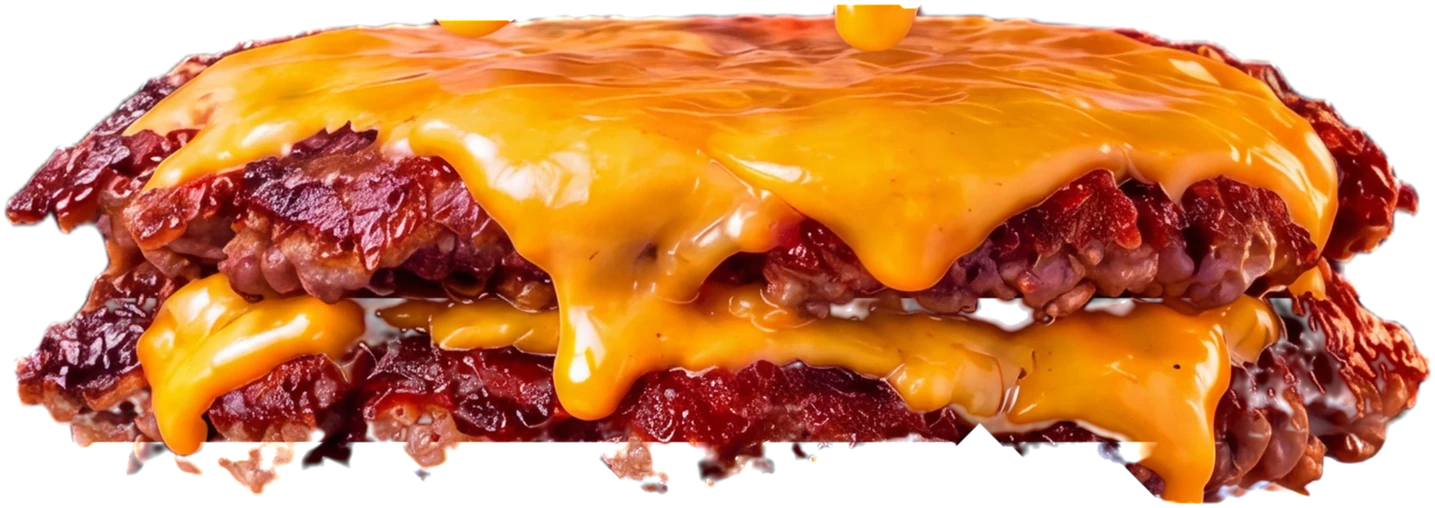
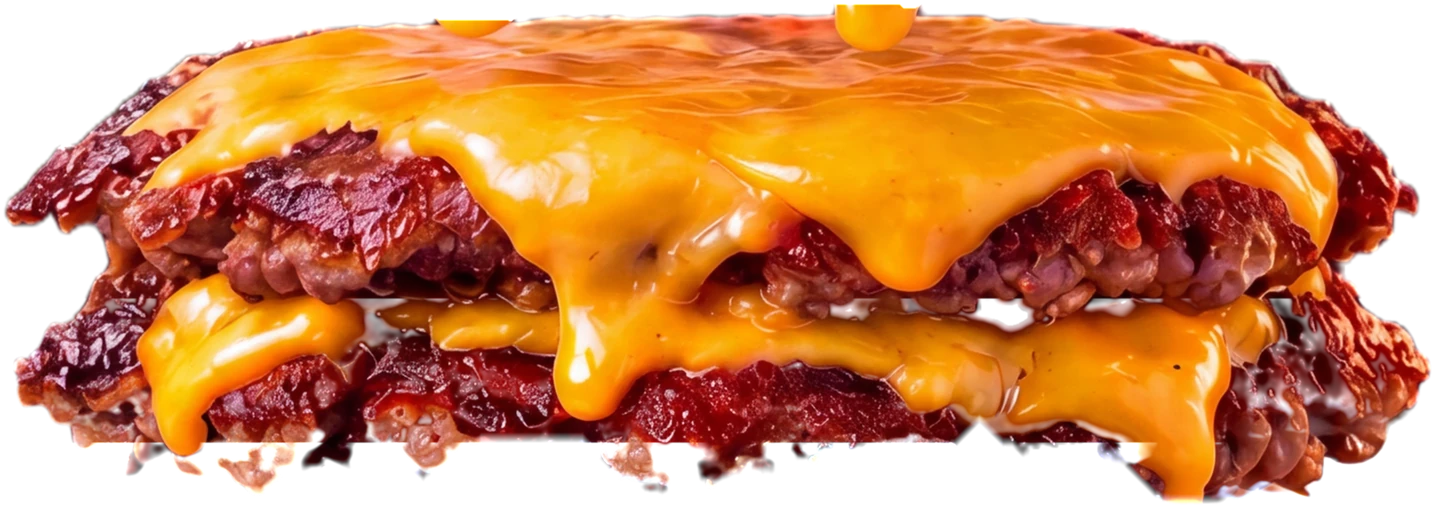
Fotos a resolución completa (calidad 90, AVIF) y «¿Qué lleva?» con la torre nueva
- Recortes de producto exportados a la resolución máxima que tienen (2600 px las de 4K; 1560-1980 px las de 2K)
  en vez de 1400 px; next/image admite calidad 90 y sirve AVIF (antes quedaba clavado a 75).
- «¿Qué lleva?»: la Smash abierta con las mismas capas del hero en su posición abierta (queso del v5).
- Capa de la carne más limpia (sin migas, corte inferior fundido) y bacon sin restos de carne en el fondo fijo.

diff --git a/src/data/images.ts b/src/data/images.ts
@@ -23,14 +23,14 @@ export type SlotImage = {
 };
 
 export const slots: Record<SlotId, SlotImage | null> = {
-  "smash-burger": { src: "/images/carta/smash-burger-v3.webp", alt: "Smash Burger", width: 1400, height: 950, cutout: "contact" },
-  classic: { src: "/images/carta/classic-v2.webp", alt: "Classic", width: 1400, height: 999, cutout: "contact" },
-  "texas-cowboy": { src: "/images/carta/texas-cowboy-v2.webp", alt: "Texas Cowboy", width: 1400, height: 1018, cutout: "contact" },
-  "double-trouble": { src: "/images/carta/double-trouble-v2.webp", alt: "Double Trouble", width: 1400, height: 1459, cutout: "contact" },
-  "chicken-burger": { src: "/images/carta/chicken-burger-v3.webp", alt: "Chicken Burger", width: 1400, height: 1003, cutout: "contact" },
-  volcano: { src: "/images/carta/volcano-v3.webp", alt: "Hamburguesa con cascada de cheddar fundido", width: 1400, height: 1316, cutout: "float" },
-  // la Smash abierta por capas: último fotograma del vídeo de la portada, recortado
-  "que-lleva": { src: "/images/carta/smash-abierta.webp", alt: "La Smash Burger abierta por capas", width: 1200, height: 1681, cutout: "float" },
+  "smash-burger": { src: "/images/carta/smash-burger-v4.webp", alt: "Smash Burger", width: 2600, height: 1764, cutout: "contact" },
+  classic: { src: "/images/carta/classic-v4.webp", alt: "Classic", width: 1981, height: 1414, cutout: "contact" },
+  "texas-cowboy": { src: "/images/carta/texas-cowboy-v4.webp", alt: "Texas Cowboy", width: 1812, height: 1317, cutout: "contact" },
+  "double-trouble": { src: "/images/carta/double-trouble-v4.webp", alt: "Double Trouble", width: 1559, height: 1625, cutout: "contact" },
+  "chicken-burger": { src: "/images/carta/chicken-burger-v4.webp", alt: "Chicken Burger", width: 2600, height: 1863, cutout: "contact" },
+  volcano: { src: "/images/carta/volcano-v4.webp", alt: "Hamburguesa con cascada de cheddar fundido", width: 2600, height: 2444, cutout: "float" },
+  // la Smash abierta por capas: las mismas capas del hero en su posición abierta (renders/capas/), recortada
+  "que-lleva": { src: "/images/carta/smash-abierta-v2.webp", alt: "La Smash Burger abierta por capas", width: 1600, height: 3018, cutout: "float" },
   // foto con su fondo (no recortada)
   patatas: { src: "/images/carta/patatas.webp", alt: "Patatas fritas con salsa y queso rallado", width: 1086, height: 1448 },
 };

diff --git a/src/app/sections.css b/src/app/sections.css
@@ -704,7 +704,7 @@
   position: relative;
   flex: none;
   width: min(54%, 50vmin);
-  aspect-ratio: 1200 / 1681; /* proporción de la Smash abierta (smash-abierta.webp) */
+  aspect-ratio: 1600 / 3018; /* proporción de la Smash abierta (smash-abierta-v2.webp) */
 }
 /* una imagen por tema: la del otro tema no se muestra */
 :root[data-theme="dark"] .inside__still--light,

diff --git a/next.config.ts b/next.config.ts
@@ -38,6 +38,8 @@ const nextConfig: NextConfig = {
   trailingSlash: true,
   cacheComponents: !isPages,
   partialPrefetching: !isPages,
+  // fotos de producto y recortes a calidad 90 y en AVIF cuando el navegador lo admite (con 75 se perdía detalle)
+  images: { qualities: [75, 90], formats: ["image/avif", "image/webp"] },
   turbopack: {
     rules: {
       "*.css": {

diff --git a/src/components/kit/ImageSlot.tsx b/src/components/kit/ImageSlot.tsx
@@ -45,7 +45,7 @@ export default function ImageSlot({
   }
   return (
     <div className={`slot ${circle} ${className}`}>
-      <Image src={img.src} alt={text} fill sizes={sizes} priority={priority} style={{ objectFit: fit }} />
+      <Image src={img.src} alt={text} fill sizes={sizes} quality={90} priority={priority} style={{ objectFit: fit }} />
     </div>
   );
 }

diff --git a/src/components/kit/Cutout.tsx b/src/components/kit/Cutout.tsx
@@ -24,6 +24,7 @@ export default function Cutout({ src, alt, sizes, priority, contact = true, ambi
         alt={alt}
         fill
         sizes={sizes}
+        quality={90}
         priority={priority}
         className={ambient ? "cutout__img cutout__img--ambient" : "cutout__img"}
         style={{ objectFit: "contain" }}
